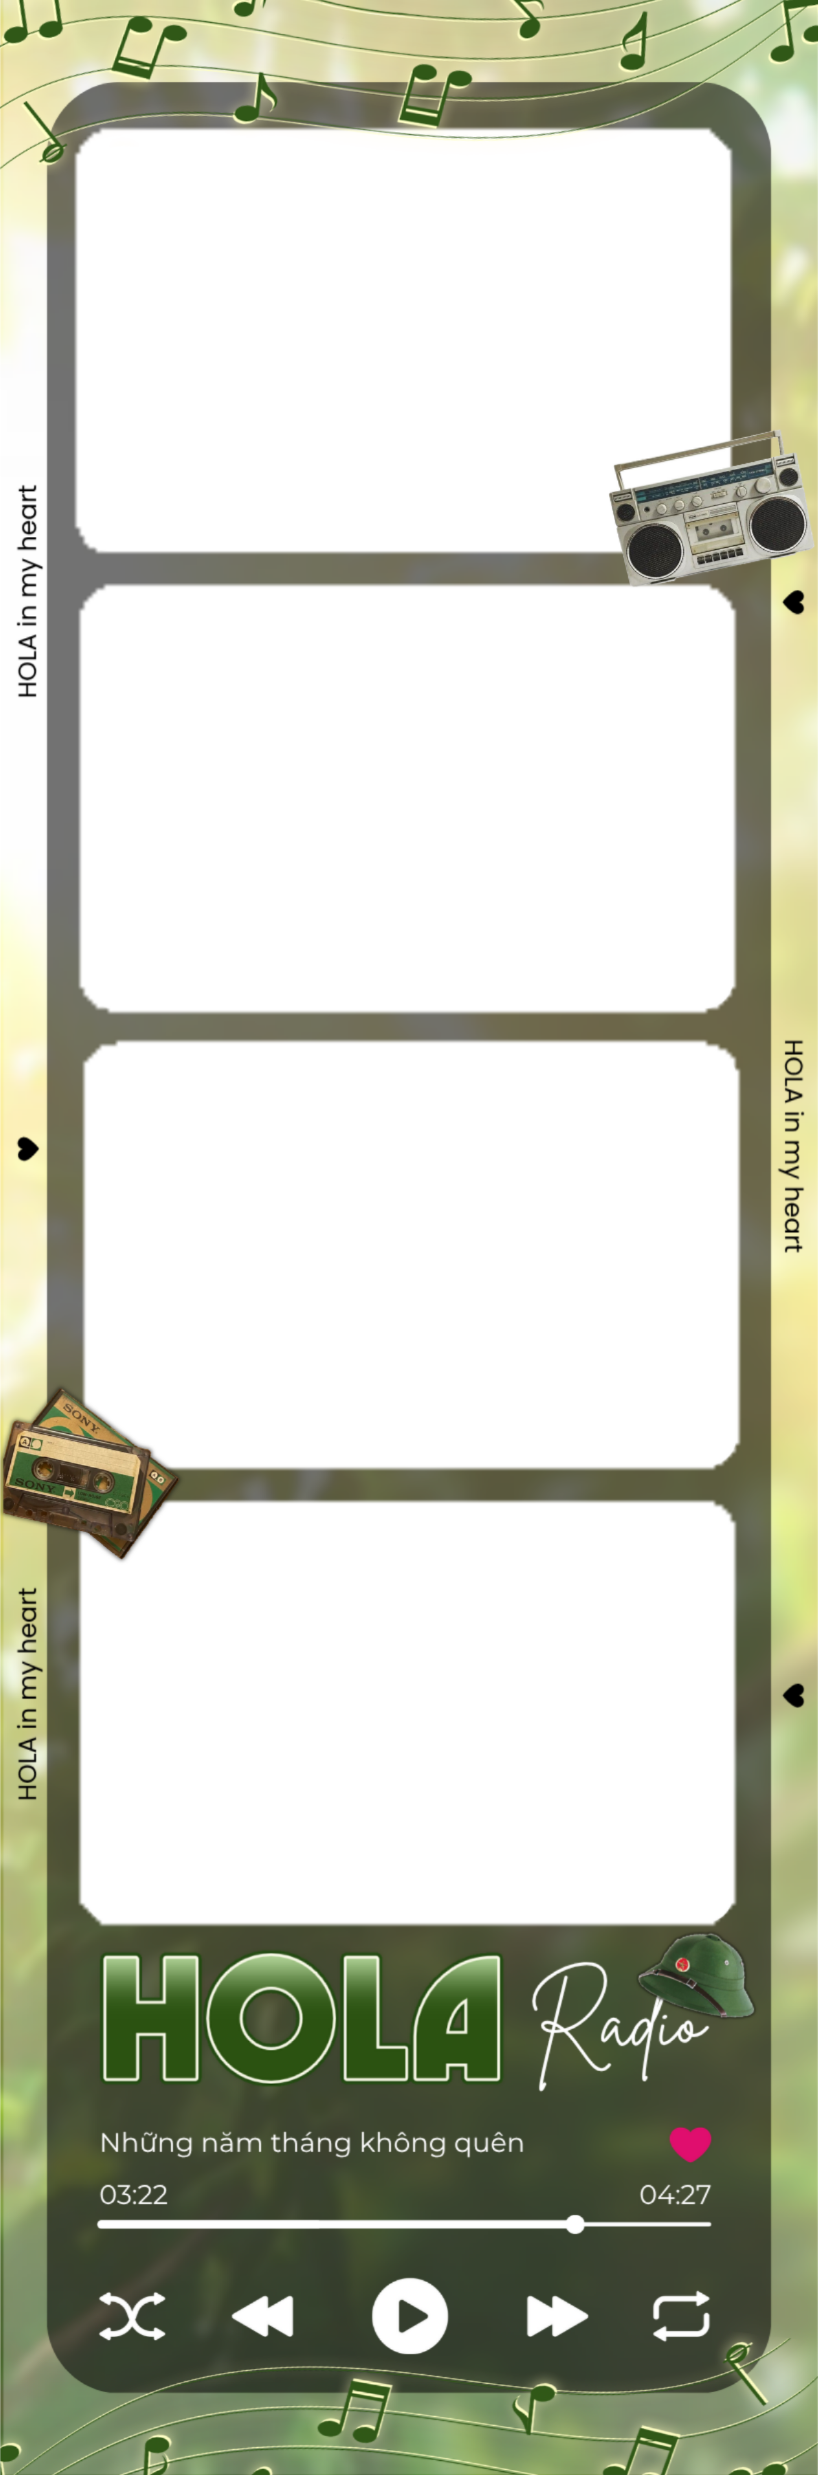
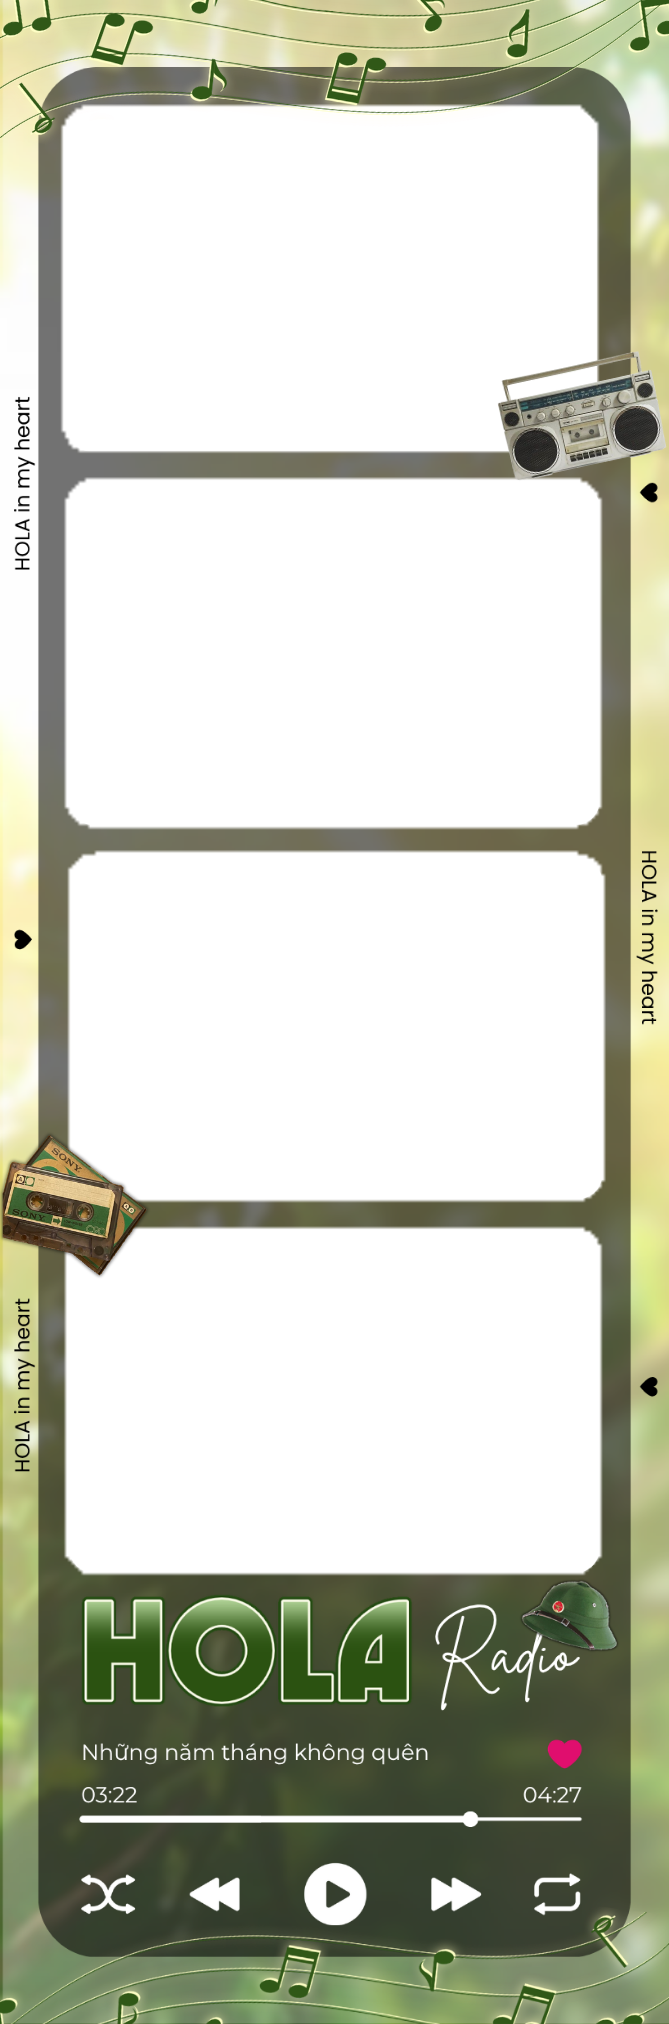
fit all frames

diff --git a/app.js b/app.js
@@ -95,59 +95,40 @@ let FRAME_POSITIONS = {
     },
     "./Frames/Basic.png": {
         "photoSize": {
-            "width": 710,
-            "height": 520
+            "width": 603,
+            "height": 448
         },
-        "drawPhotosOnTop": true,
         "positions": [
-            {
-                "x": 50,
-                "y": 60,
-                "centerX": false
-            },
-            {
-                "x": 50,
-                "y": 620,
-                "centerX": false
-            },
-            {
-                "x": 50,
-                "y": 1160,
-                "centerX": false
-            },
-            {
-                "x": 50,
-                "y": 1710,
-                "centerX": false
-            }
+            { "x": 31, "y": 44, "centerX": false },
+            { "x": 31, "y": 494, "centerX": false },
+            { "x": 31, "y": 936, "centerX": false },
+            { "x": 31, "y": 1386, "centerX": false }
         ]
     },
     "./Frames/HoLive.png": {
         "photoSize": {
-            "width": 690,
-            "height": 440
+            "width": 590,
+            "height": 385
         },
-        "drawPhotosOnTop": true,
         "positions": [
-            { "x": 120, "y": 620, "photoIndex": 0, "centerX": false },
-            { "x": 120, "y": 1100, "photoIndex": 1, "centerX": false },
-            { "x": 120, "y": 1570, "photoIndex": 2, "centerX": false },
-            { "x": 850, "y": 620, "photoIndex": 3, "centerX": false },
-            { "x": 850, "y": 1100, "photoIndex": 4, "centerX": false },
-            { "x": 850, "y": 1570, "photoIndex": 5, "centerX": false }
+            { "x": 84, "y": 494, "photoIndex": 0, "centerX": false },
+            { "x": 84, "y": 883, "photoIndex": 1, "centerX": false },
+            { "x": 84, "y": 1270, "photoIndex": 2, "centerX": false },
+            { "x": 684, "y": 494, "photoIndex": 3, "centerX": false },
+            { "x": 684, "y": 883, "photoIndex": 4, "centerX": false },
+            { "x": 684, "y": 1270, "photoIndex": 5, "centerX": false }
         ]
     },
     "./Frames/HolaRadio.png": {
         "photoSize": {
-            "width": 640,
-            "height": 410
+            "width": 552,
+            "height": 364
         },
-        "drawPhotosOnTop": true,
         "positions": [
-            { "x": 90, "y": 140, "photoIndex": 0, "centerX": false },
-            { "x": 90, "y": 590, "photoIndex": 1, "centerX": false },
-            { "x": 90, "y": 1050, "photoIndex": 2, "centerX": false },
-            { "x": 90, "y": 1510, "photoIndex": 3, "centerX": false }
+            { "x": 54, "y": 98, "photoIndex": 0, "centerX": false },
+            { "x": 57, "y": 471, "photoIndex": 1, "centerX": false },
+            { "x": 61, "y": 844, "photoIndex": 2, "centerX": false },
+            { "x": 57, "y": 1220, "photoIndex": 3, "centerX": false }
         ]
     }
 };

diff --git a/temp_run.py b/temp_run.py
@@ -1,0 +1,23 @@
+import find_slots
+import statistics
+
+frames = ['Frames/Basic.png', 'Frames/HoLive.png', 'Frames/HolaRadio.png']
+for frame in frames:
+    try:
+        regions = find_slots.find_transparent_slots(frame)
+        if not regions:
+            print(f'No slots found for {frame}')
+            continue
+        widths = [r['width'] for r in regions]
+        heights = [r['height'] for r in regions]
+        common_w = round(statistics.median(widths))
+        common_h = round(statistics.median(heights))
+        print(f'"./{frame}": {{')
+        print(f'  "photoSize": {{ "width": {common_w}, "height": {common_h} }},')
+        print(f'  "positions": [')
+        for i, r in enumerate(regions):
+            print(f'    {{ "x": {r["x"]}, "y": {r["y"]}, "centerX": false }}{"," if i < len(regions)-1 else ""}')
+        print(f'  ]')
+        print(f'}},')
+    except Exception as e:
+        print(f"Error for {frame}: {e}")
